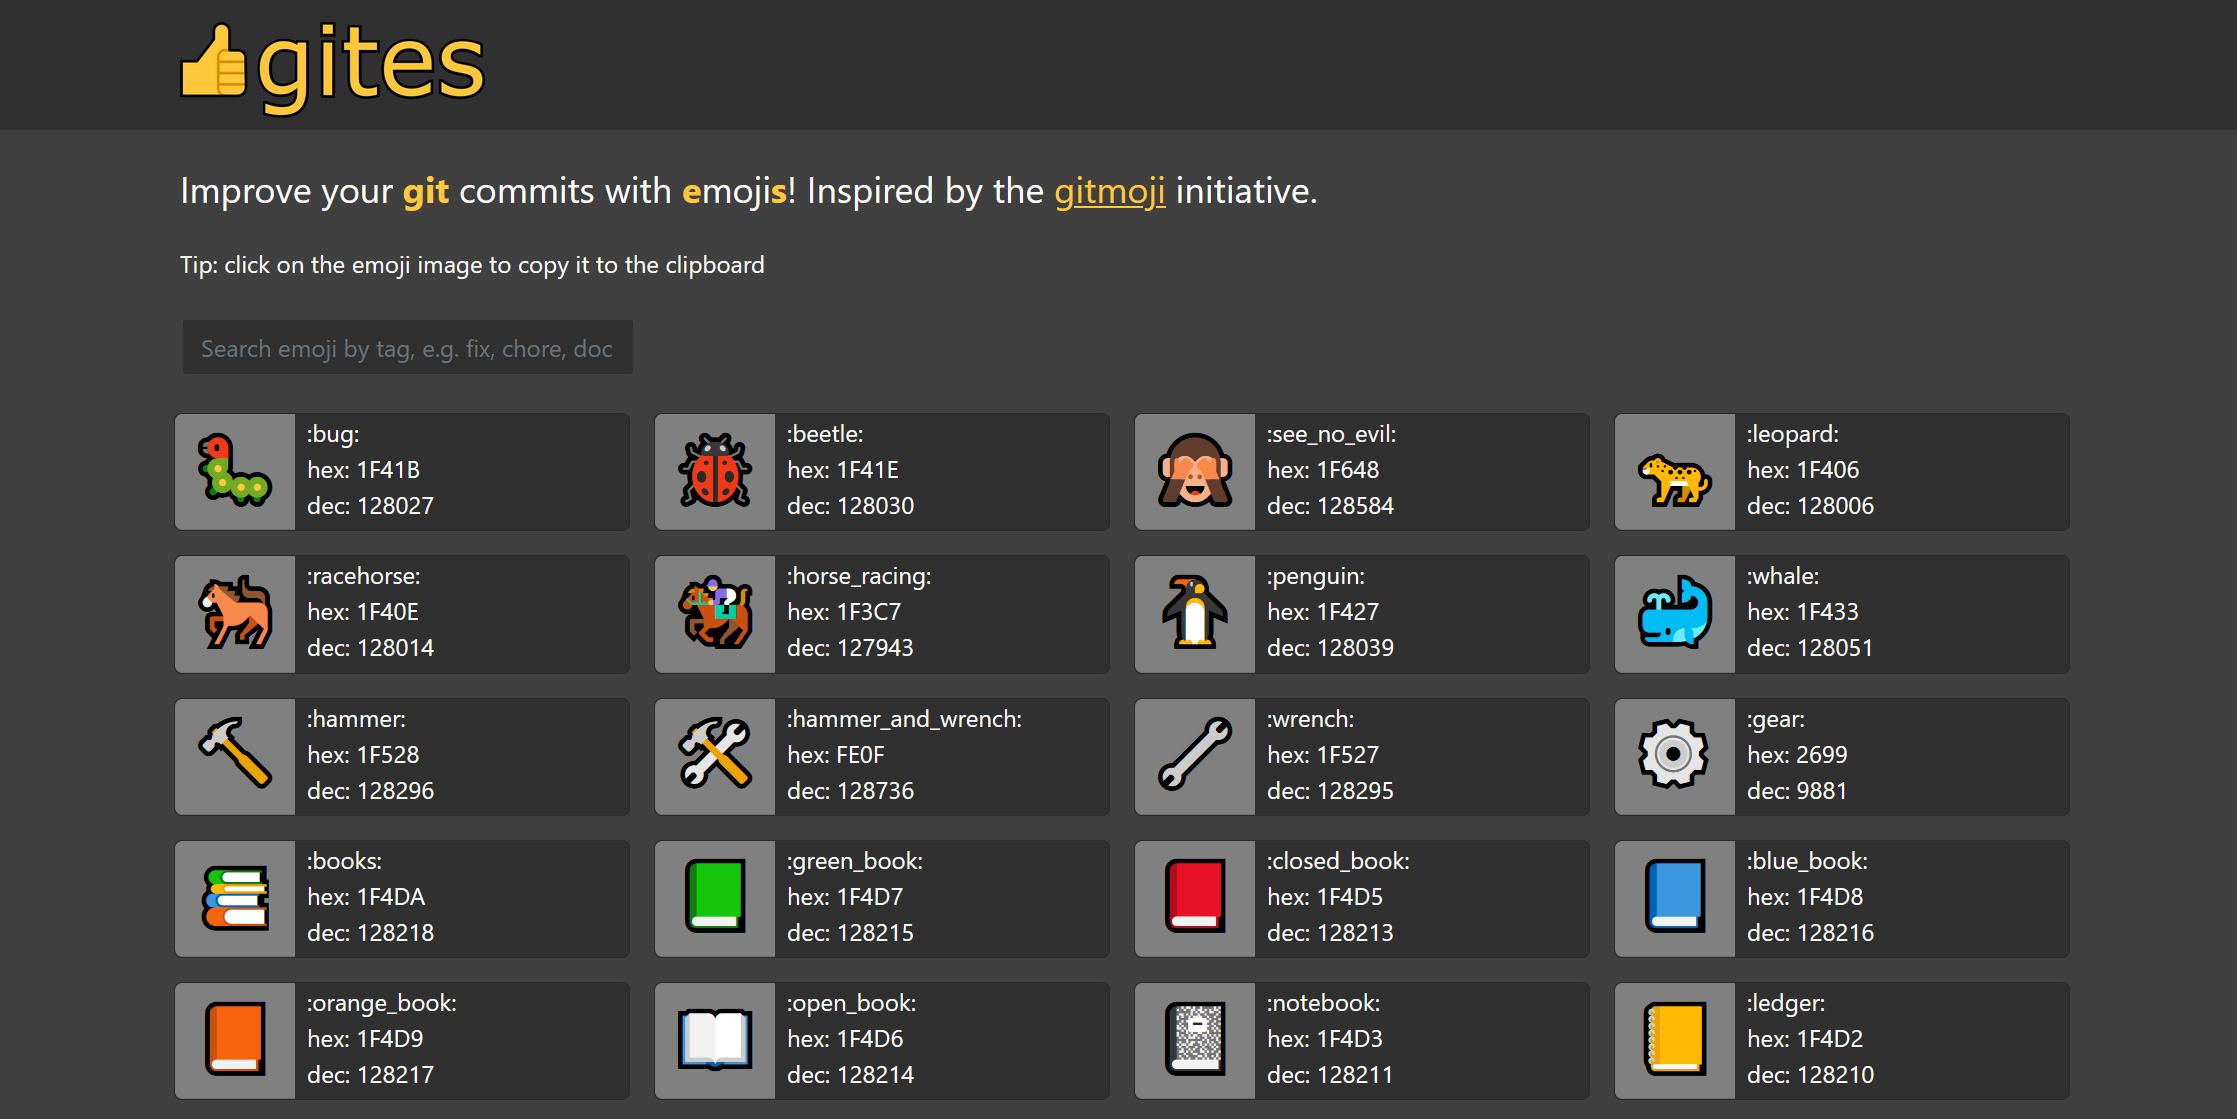
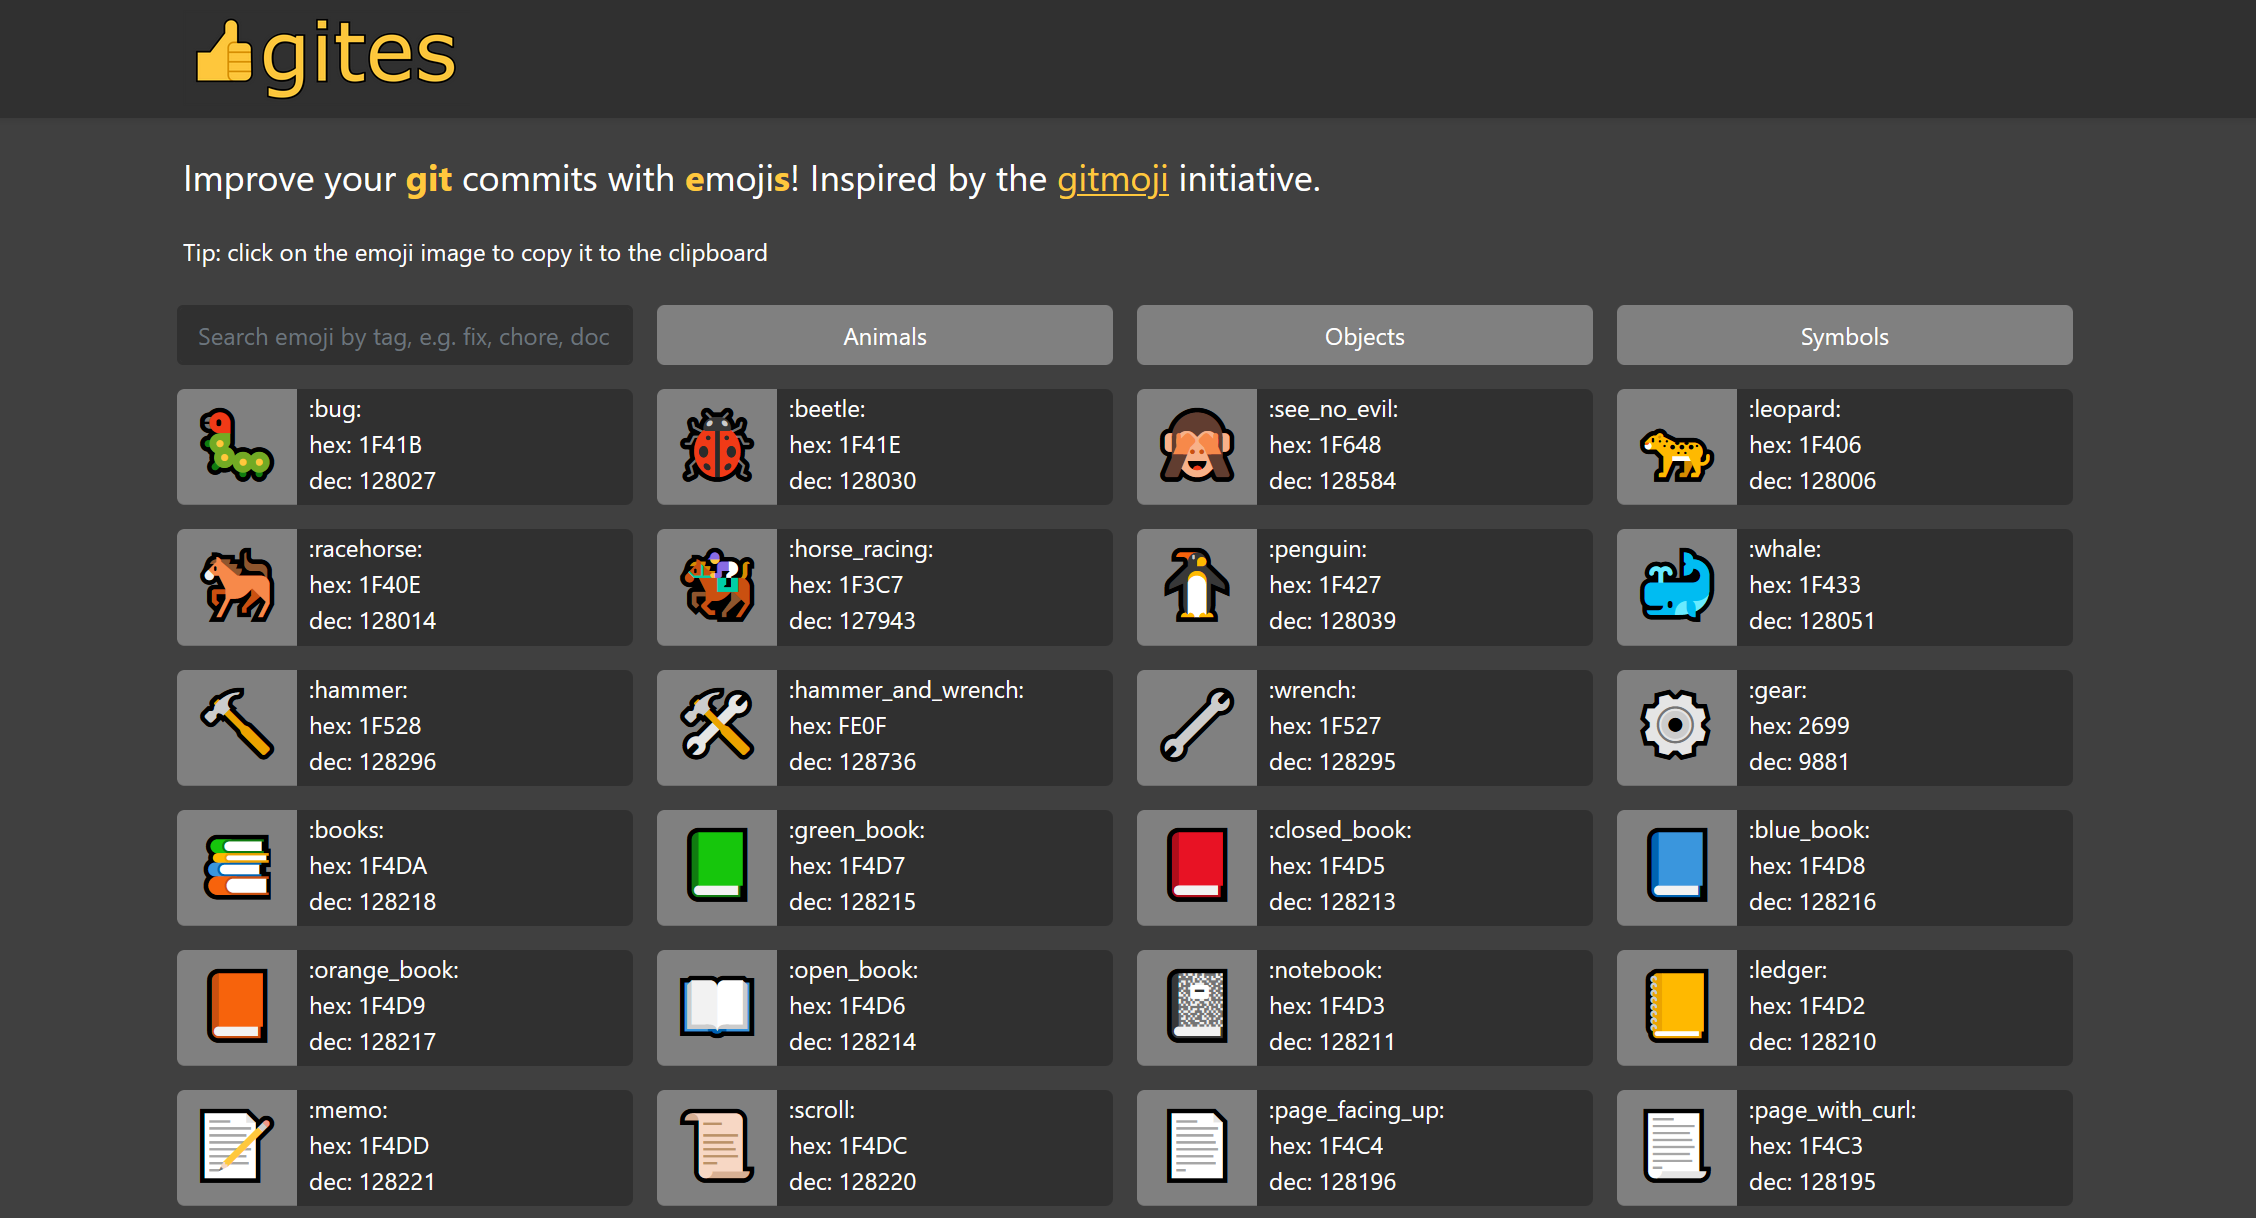
🎨 Improve graphics

Changed region(s): [[0.0617, 0.0, 0.9253, 1.0]]

diff --git a/src/main/resources/static/index.html b/src/main/resources/static/index.html
@@ -9,9 +9,12 @@
         <link href="css/snackbar.css" rel="stylesheet">
         <link href="css/bounce.css" rel="stylesheet">
 
-        <link rel="apple-touch-icon" sizes="180x180" href="/favicon/apple-touch-icon.png">
-        <link rel="icon" type="image/png" sizes="32x32" href="/favicon/favicon-32x32.png">
-        <link rel="icon" type="image/png" sizes="16x16" href="/favicon/favicon-16x16.png">
+<!--        <link rel="apple-touch-icon" sizes="180x180" href="/favicon/apple-touch-icon.png">-->
+<!--        <link rel="icon" type="image/png" sizes="32x32" href="/favicon/favicon-32x32.png">-->
+<!--        <link rel="icon" type="image/png" sizes="16x16" href="/favicon/favicon-16x16.png">-->
+        <link rel="apple-touch-icon" sizes="180x180" href="favicon.png">
+        <link rel="icon" type="image/png" sizes="32x32" href="favicon.png">
+        <link rel="icon" type="image/png" sizes="16x16" href="favicon.png">
         <link rel="manifest" href="/favicon/site.webmanifest">
 
         <title>gites</title>
@@ -39,19 +42,19 @@
 
             <div class="row">
                 <div class="col-auto px-2 flex-row flex-wrap">
-                    <input type="text" class="form-control"
+                    <input type="text" class="form-control mb-3 mt-0"
                            placeholder="Search emoji by tag, e.g. fix, chore, doc"
                            ng-change="searchByTag()"
                            ng-model="inputText"
                            ng-model-options="{debounce: 500}">
                 </div>
-                <div class="col-auto mt-4 px-2 flex-row flex-wrap">
+                <div class="col-auto px-2 mb-3 flex-row flex-wrap">
                     <button type="button" class="btn btn-category" onclick="search(['animals'])">Animals</button>
                 </div>
-                <div class="col-auto mt-4 px-2 flex-row flex-wrap">
+                <div class="col-auto px-2 mb-3 flex-row flex-wrap">
                     <button type="button" class="btn btn-category" onclick="search(['objects'])">Objects</button>
                 </div>
-                <div class="col-auto mt-4 px-2 flex-row flex-wrap">
+                <div class="col-auto px-2 mb-3 flex-row flex-wrap">
                     <button type="button" class="btn btn-category" onclick="search(['symbols'])">Symbols</button>
                 </div>
             </div>

diff --git a/src/main/resources/static/css/gites.css b/src/main/resources/static/css/gites.css
@@ -1,6 +1,7 @@
 :root {
     --light-grey:   rgba(128,128,128,1.00);
     --grey:         rgba(64,64,64,1.00);
+    --mid-grey:     rgba(56,56,56,1.00);
     --dark-grey:    rgba(48,48,48,1.00);
     --yellow:       rgba(255,200,61,1.00);
 }
@@ -21,11 +22,14 @@ html body {
 .card {
     background-color: var(--dark-grey);
     border-radius: 5px !important;
+    border: 0 !important;
     width: 19rem;
     transition: 1s;
+    background-color: var(--dark-grey);
 }
 .card:hover{
-    transform: scale(1.1);
+    transform: scale(1.05);
+    background-color: var(--mid-grey);
 }
 
 .card-header {
